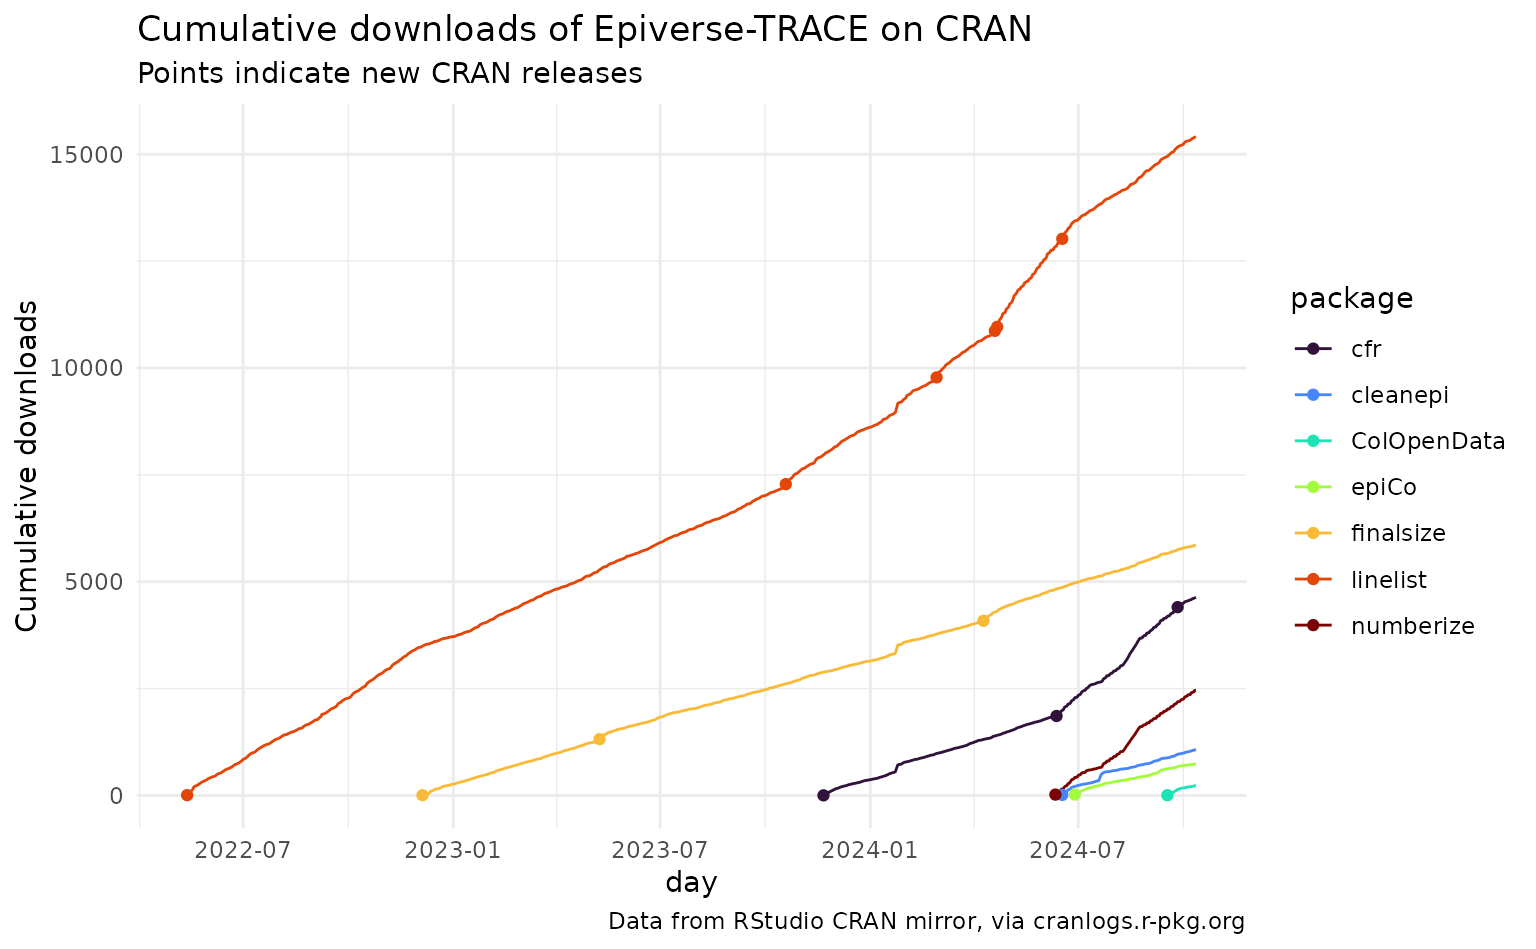
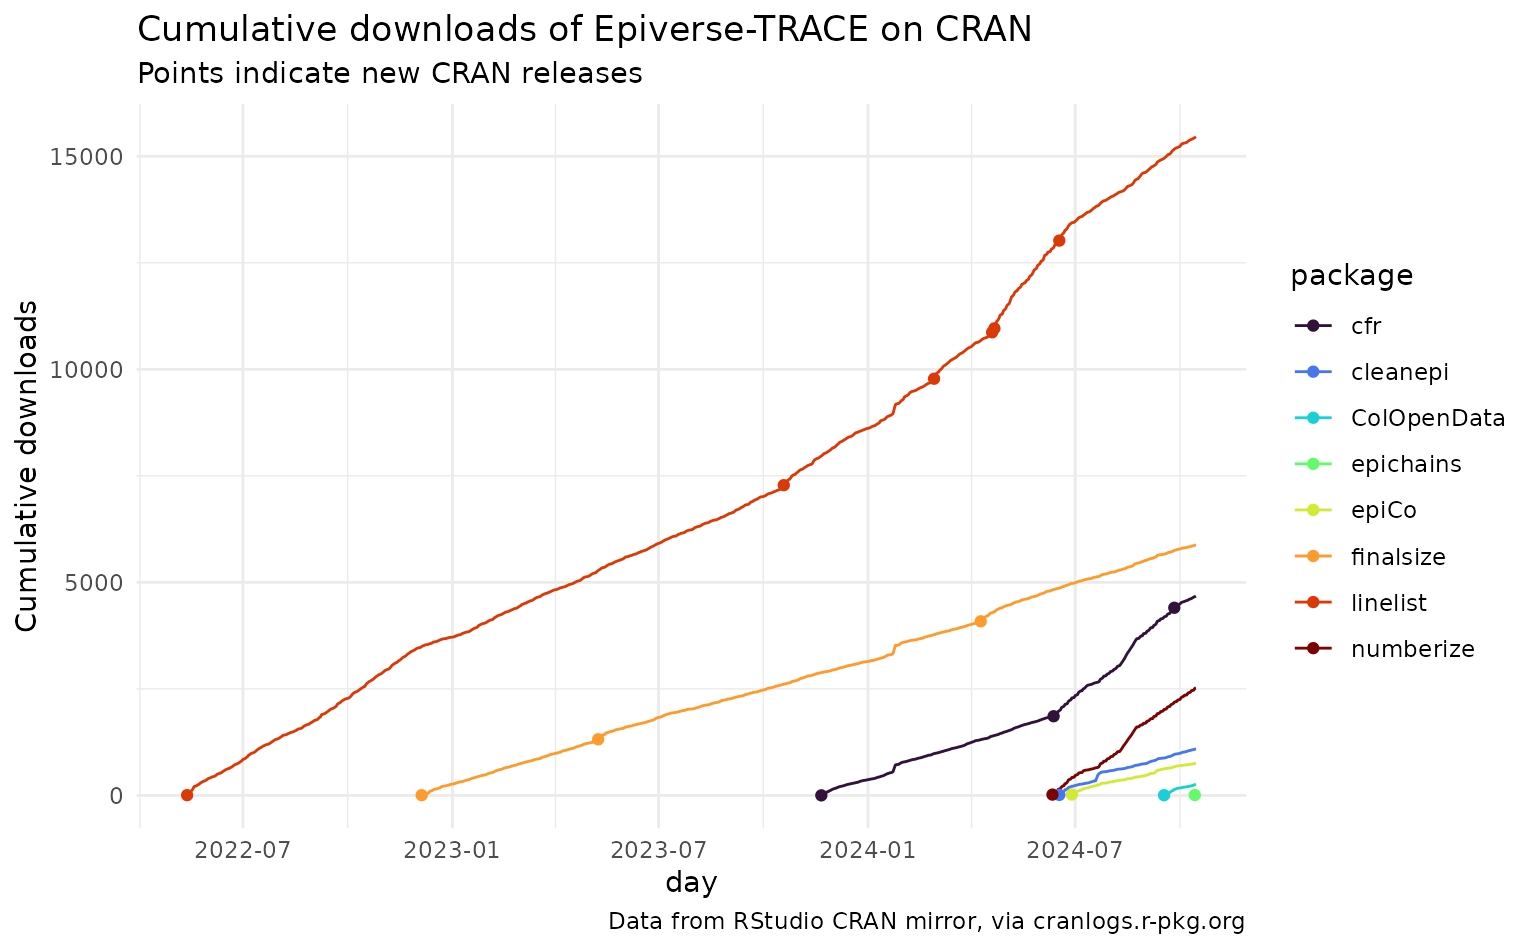
Deploying to gh-pages from @ epiverse-trace/etstats@56b072baf188a88197658e4548cb845860ff0f3f 🚀

diff --git a/articles/cran-statistics.html b/articles/cran-statistics.html
@@ -74,7 +74,7 @@
 
       <h1>CRAN statistics</h1>
             
-            <h4 data-toc-skip class="date">2024-10-14</h4>
+            <h4 data-toc-skip class="date">2024-10-17</h4>
       
       <small class="dont-index">Source: <a href="https://github.com/epiverse-trace/etstats/blob/main/vignettes/cran-statistics.Rmd" class="external-link"><code>vignettes/cran-statistics.Rmd</code></a></small>
       <div class="d-none name"><code>cran-statistics.Rmd</code></div>
@@ -82,8 +82,9 @@
 
     
     
-<p>We currently have 7 Epiverse-TRACE packages on CRAN:</p>
+<p>We currently have 8 Epiverse-TRACE packages on CRAN:</p>
 <ul>
+<li><a href="https://cran.r-project.org/package=epichains" class="external-link">epichains</a></li>
 <li><a href="https://cran.r-project.org/package=linelist" class="external-link">linelist</a></li>
 <li><a href="https://cran.r-project.org/package=epiCo" class="external-link">epiCo</a></li>
 <li><a href="https://cran.r-project.org/package=cleanepi" class="external-link">cleanepi</a></li>
@@ -92,11 +93,11 @@
 <li><a href="https://cran.r-project.org/package=cfr" class="external-link">cfr</a></li>
 <li><a href="https://cran.r-project.org/package=finalsize" class="external-link">finalsize</a></li>
 </ul>
-<p>In total, Epiverse-TRACE packages on CRAN have been downloaded 30402
+<p>In total, Epiverse-TRACE packages on CRAN have been downloaded 30664
 times.</p>
 <p>Below is a visualization of the breakdown of this grand total by
 package over time.</p>
-<p><img src="cran-statistics_files/figure-html/unnamed-chunk-7-1.png" alt="Cumulative downloads of Epiverse-TRACE on CRAN (linelist, epiCo, cleanepi, numberize, ColOpenData, cfr, finalsize)" width="768"></p>
+<p><img src="cran-statistics_files/figure-html/unnamed-chunk-7-1.png" alt="Cumulative downloads of Epiverse-TRACE on CRAN (epichains, linelist, epiCo, cleanepi, numberize, ColOpenData, cfr, finalsize)" width="768"></p>
 <table class="table">
 <thead><tr class="header">
 <th align="left">package</th>
@@ -109,49 +110,55 @@ package over time.</p>
 <td align="left">finalsize</td>
 <td align="right">260</td>
 <td align="right">2881</td>
-<td align="right">2714</td>
+<td align="right">2735</td>
 </tr>
 <tr class="even">
 <td align="left">linelist</td>
 <td align="right">3712</td>
 <td align="right">4898</td>
-<td align="right">6798</td>
+<td align="right">6847</td>
 </tr>
 <tr class="odd">
 <td align="left">cfr</td>
 <td align="right">NA</td>
 <td align="right">364</td>
-<td align="right">4271</td>
+<td align="right">4312</td>
 </tr>
 <tr class="even">
 <td align="left">ColOpenData</td>
 <td align="right">NA</td>
 <td align="right">NA</td>
-<td align="right">230</td>
+<td align="right">266</td>
 </tr>
 <tr class="odd">
 <td align="left">cleanepi</td>
 <td align="right">NA</td>
 <td align="right">NA</td>
-<td align="right">1071</td>
+<td align="right">1094</td>
 </tr>
 <tr class="even">
 <td align="left">epiCo</td>
 <td align="right">NA</td>
 <td align="right">NA</td>
-<td align="right">740</td>
+<td align="right">754</td>
 </tr>
 <tr class="odd">
+<td align="left">epichains</td>
+<td align="right">NA</td>
+<td align="right">NA</td>
+<td align="right">20</td>
+</tr>
+<tr class="even">
 <td align="left">numberize</td>
 <td align="right">NA</td>
 <td align="right">NA</td>
-<td align="right">2463</td>
+<td align="right">2521</td>
 </tr>
-<tr class="even">
+<tr class="odd">
 <td align="left">Total</td>
 <td align="right">3972</td>
 <td align="right">8143</td>
-<td align="right">18287</td>
+<td align="right">18549</td>
 </tr>
 </tbody>
 </table></main>

diff --git a/articles/github-statistics.html b/articles/github-statistics.html
@@ -74,7 +74,7 @@
 
       <h1>GitHub statistics</h1>
             
-            <h4 data-toc-skip class="date">2024-10-14</h4>
+            <h4 data-toc-skip class="date">2024-10-17</h4>
       
       <small class="dont-index">Source: <a href="https://github.com/epiverse-trace/etstats/blob/main/vignettes/github-statistics.Rmd" class="external-link"><code>vignettes/github-statistics.Rmd</code></a></small>
       <div class="d-none name"><code>github-statistics.Rmd</code></div>
@@ -85,7 +85,7 @@
 <div class="section level2">
 <h2 id="github-followers">GitHub followers<a class="anchor" aria-label="anchor" href="#github-followers"></a>
 </h2>
-<p>Our Epiverse-TRACE GitHub organization currently has 158
+<p>Our Epiverse-TRACE GitHub organization currently has 159
 followers.</p>
 </div>
 <div class="section level2">
@@ -94,8 +94,8 @@ followers.</p>
 <div class="section level3">
 <h3 id="totals">Totals<a class="anchor" aria-label="anchor" href="#totals"></a>
 </h3>
-<p>In total, we have 201 stars across all Epiverse-TRACE packages. These
-stars come from 121 unique users.</p>
+<p>In total, we have 202 stars across all Epiverse-TRACE packages. These
+stars come from 122 unique users.</p>
 <p><img src="github-statistics_files/figure-html/unnamed-chunk-5-1.png" width="768"></p>
 </div>
 <div class="section level3">
@@ -240,7 +240,7 @@ stars come from 121 unique users.</p>
 <td align="left">sivirep</td>
 <td align="right">0</td>
 <td align="right">21</td>
-<td align="right">8</td>
+<td align="right">9</td>
 </tr>
 <tr class="odd">
 <td align="left">vaccineff</td>
@@ -264,7 +264,7 @@ stars come from 121 unique users.</p>
 <td align="left">Total</td>
 <td align="right">24</td>
 <td align="right">89</td>
-<td align="right">88</td>
+<td align="right">89</td>
 </tr>
 </tbody>
 </table>
